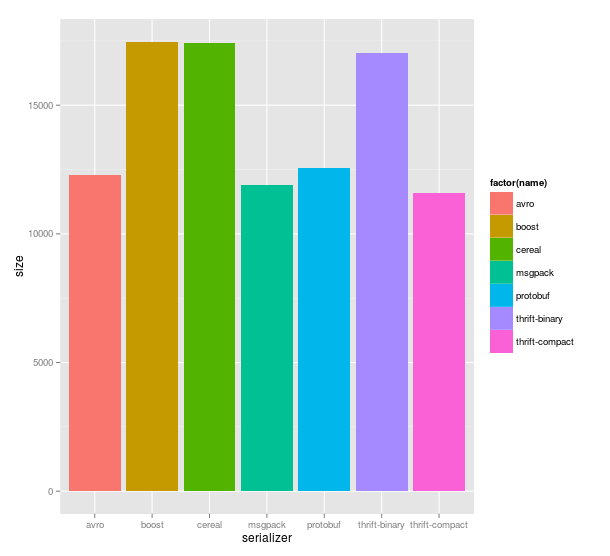
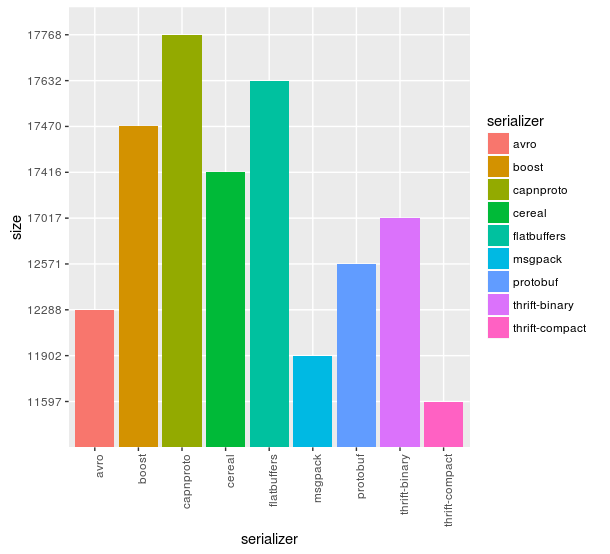
add flatbuffers

diff --git a/test.cpp b/test.cpp
@@ -25,6 +25,7 @@
 #include "msgpack/record.hpp"
 #include "cereal/record.hpp"
 #include "avro/record.hpp"
+#include "flatbuffers/test_generated.h"
 
 #include "data.hpp"
 
@@ -203,9 +204,25 @@ capnproto_serialization_test(size_t iterations)
 
     auto start = std::chrono::high_resolution_clock::now();
     for (size_t i = 0; i < iterations; i++) {
+        capnp::MallocMessageBuilder message;
+        Record::Builder r1 = message.getRoot<Record>();
+
+        auto ids = r1.initIds(kIntegers.size());
+        for (size_t i = 0; i < kIntegers.size(); i++) {
+            ids.set(i, kIntegers[i]);
+        }
+
+        auto strings = r1.initStrings(kStringsCount);
+        for (size_t i = 0; i < kStringsCount; i++) {
+            strings.set(i, kStringValue);
+        }
+
         serialized = message.getSegmentsForOutput();
         capnp::SegmentArrayMessageReader reader(serialized);
-        reader.getRoot<Record>();
+        auto r2 = reader.getRoot<Record>();
+
+        (void)r2.getIds().size();
+        (void)r2.getStrings().size();
     }
     auto finish = std::chrono::high_resolution_clock::now();
     auto duration = std::chrono::duration_cast<std::chrono::milliseconds>(finish - start).count();
@@ -394,13 +411,74 @@ avro_serialization_test(size_t iterations)
     std::cout << "avro: time = " << duration << " milliseconds" << std::endl << std::endl;
 }
 
+void
+flatbuffers_serialization_test(size_t iterations)
+{
+    using namespace flatbuffers_test;
+
+    std::vector<flatbuffers::Offset<flatbuffers::String>> strings;
+    strings.reserve(kStringsCount);
+
+    flatbuffers::FlatBufferBuilder builder;
+    for (size_t i = 0; i < kStringsCount; i++) {
+        strings.push_back(builder.CreateString(kStringValue));
+    }
+
+    auto ids_vec = builder.CreateVector(kIntegers);
+    auto strings_vec = builder.CreateVector(strings);
+    auto r1 = CreateRecord(builder, ids_vec, strings_vec);
+
+    builder.Finish(r1);
+
+    auto p = reinterpret_cast<char*>(builder.GetBufferPointer());
+    auto sz = builder.GetSize();
+    std::vector<char> buf(p, p + sz);
+
+    auto r2 = GetRecord(buf.data());
+    if (r2->strings()->size() != kStringsCount || r2->ids()->size() != kIntegers.size()) {
+        throw std::logic_error("flatbuffer's case: deserialization failed");
+    }
+
+    std::cout << "flatbuffers: size = " << builder.GetSize() << " bytes" << std::endl;
+
+    builder.ReleaseBufferPointer();
+
+    auto start = std::chrono::high_resolution_clock::now();
+    for (size_t i = 0; i < iterations; i++) {
+        builder.Clear();
+        strings.clear();
+        // buf.clear();
+
+        for (size_t i = 0; i < kStringsCount; i++) {
+            strings.push_back(builder.CreateString(kStringValue));
+        }
+
+        auto ids_vec = builder.CreateVector(kIntegers);
+        auto strings_vec = builder.CreateVector(strings);
+        auto r1 = CreateRecord(builder, ids_vec, strings_vec);
+        builder.Finish(r1);
+
+        auto p = reinterpret_cast<char*>(builder.GetBufferPointer());
+        auto sz = builder.GetSize();
+        std::vector<char> buf(p, p + sz);
+        auto r2 = GetRecord(buf.data());
+        (void)r2->ids()[0];
+
+        builder.ReleaseBufferPointer();
+    }
+    auto finish = std::chrono::high_resolution_clock::now();
+    auto duration = std::chrono::duration_cast<std::chrono::milliseconds>(finish - start).count();
+
+    std::cout << "flatbuffers: time = " << duration << " milliseconds" << std::endl << std::endl;
+}
+
 int
 main(int argc, char **argv)
 {
     GOOGLE_PROTOBUF_VERIFY_VERSION;
 
     if (argc < 2) {
-        std::cout << "usage: " << argv[0] << " N [thrift-binary thrift-compact protobuf boost msgpack cereal avro]";
+        std::cout << "usage: " << argv[0] << " N [thrift-binary thrift-compact protobuf boost msgpack cereal avro flatbuffers]";
         std::cout << std::endl << std::endl;
         std::cout << "arguments: " << std::endl;
         std::cout << " N  -- number of iterations" << std::endl << std::endl;
@@ -460,6 +538,10 @@ main(int argc, char **argv)
 
         if (names.empty() || names.find("avro") != names.end()) {
             avro_serialization_test(iterations);
+        }
+
+        if (names.empty() || names.find("flatbuffers") != names.end()) {
+            flatbuffers_serialization_test(iterations);
         }
     } catch (std::exception &exc) {
         std::cerr << "Error: " << exc.what() << std::endl;

diff --git a/flatbuffers/test_generated.h b/flatbuffers/test_generated.h
@@ -1,0 +1,61 @@
+// automatically generated by the FlatBuffers compiler, do not modify
+
+#ifndef FLATBUFFERS_GENERATED_TEST_FLATBUFFERS_TEST_H_
+#define FLATBUFFERS_GENERATED_TEST_FLATBUFFERS_TEST_H_
+
+#include "flatbuffers/flatbuffers.h"
+
+
+namespace flatbuffers_test {
+
+struct Record;
+
+struct Record FLATBUFFERS_FINAL_CLASS : private flatbuffers::Table {
+  enum {
+    VT_IDS = 4,
+    VT_STRINGS = 6
+  };
+  const flatbuffers::Vector<int64_t> *ids() const { return GetPointer<const flatbuffers::Vector<int64_t> *>(VT_IDS); }
+  const flatbuffers::Vector<flatbuffers::Offset<flatbuffers::String>> *strings() const { return GetPointer<const flatbuffers::Vector<flatbuffers::Offset<flatbuffers::String>> *>(VT_STRINGS); }
+  bool Verify(flatbuffers::Verifier &verifier) const {
+    return VerifyTableStart(verifier) &&
+           VerifyField<flatbuffers::uoffset_t>(verifier, VT_IDS) &&
+           verifier.Verify(ids()) &&
+           VerifyField<flatbuffers::uoffset_t>(verifier, VT_STRINGS) &&
+           verifier.Verify(strings()) &&
+           verifier.VerifyVectorOfStrings(strings()) &&
+           verifier.EndTable();
+  }
+};
+
+struct RecordBuilder {
+  flatbuffers::FlatBufferBuilder &fbb_;
+  flatbuffers::uoffset_t start_;
+  void add_ids(flatbuffers::Offset<flatbuffers::Vector<int64_t>> ids) { fbb_.AddOffset(Record::VT_IDS, ids); }
+  void add_strings(flatbuffers::Offset<flatbuffers::Vector<flatbuffers::Offset<flatbuffers::String>>> strings) { fbb_.AddOffset(Record::VT_STRINGS, strings); }
+  RecordBuilder(flatbuffers::FlatBufferBuilder &_fbb) : fbb_(_fbb) { start_ = fbb_.StartTable(); }
+  RecordBuilder &operator=(const RecordBuilder &);
+  flatbuffers::Offset<Record> Finish() {
+    auto o = flatbuffers::Offset<Record>(fbb_.EndTable(start_, 2));
+    return o;
+  }
+};
+
+inline flatbuffers::Offset<Record> CreateRecord(flatbuffers::FlatBufferBuilder &_fbb,
+   flatbuffers::Offset<flatbuffers::Vector<int64_t>> ids = 0,
+   flatbuffers::Offset<flatbuffers::Vector<flatbuffers::Offset<flatbuffers::String>>> strings = 0) {
+  RecordBuilder builder_(_fbb);
+  builder_.add_strings(strings);
+  builder_.add_ids(ids);
+  return builder_.Finish();
+}
+
+inline const flatbuffers_test::Record *GetRecord(const void *buf) { return flatbuffers::GetRoot<flatbuffers_test::Record>(buf); }
+
+inline bool VerifyRecordBuffer(flatbuffers::Verifier &verifier) { return verifier.VerifyBuffer<flatbuffers_test::Record>(); }
+
+inline void FinishRecordBuffer(flatbuffers::FlatBufferBuilder &fbb, flatbuffers::Offset<flatbuffers_test::Record> root) { fbb.Finish(root); }
+
+}  // namespace flatbuffers_test
+
+#endif  // FLATBUFFERS_GENERATED_TEST_FLATBUFFERS_TEST_H_

diff --git a/README.md b/README.md
@@ -1,4 +1,15 @@
-#### [Thrift](http://thrift.apache.org/) vs. [Protobuf](https://code.google.com/p/protobuf/) vs. [Boost.Serialization](http://www.boost.org/libs/serialization) vs. [Msgpack](http://msgpack.org/) vs. [Cereal](http://uscilab.github.io/cereal/index.html) vs. [Avro](http://avro.apache.org/) serialization/deserialization time test for C++.
+#### About
+
+Compare various data serialization libraries for C++.
+
+* [Thrift](http://thrift.apache.org/)
+* [Protobuf](https://code.google.com/p/protobuf/)
+* [Boost.Serialization](http://www.boost.org/libs/serialization)
+* [Msgpack](http://msgpack.org/)
+* [Cereal](http://uscilab.github.io/cereal/index.html)
+* [Avro](http://avro.apache.org/)
+* [Capnproto](https://capnproto.org/)
+* [Flatbuffers](https://google.github.io/flatbuffers/)
 
 #### Build
 This project does not have any external library dependencies. All (boost, thrift etc.) needed libraries are downloaded
@@ -38,6 +49,8 @@ on a typical desktop computer with Intel Core i5 processor running Ubuntu 14.04.
 * msgpack 0.5.9
 * cereal 1.1.2
 * avro 1.7.7
+* capnproto 0.5.2
+* flatbuffers 1.3.0
 
 | serializer     | object's size | avg. total time |
 | -------------- | ------------- | --------------- |
@@ -49,10 +62,6 @@ on a typical desktop computer with Intel Core i5 processor running Ubuntu 14.04.
 | cereal         | 17416         | 10688           |
 | avro           | 12288         | 31750           |
 
-Size mesuared in bytes, time mesuared in milliseconds.
-
-##### Graphical representations
-
 ###### Size
 
 ![Size](images/size.png)
@@ -60,3 +69,17 @@ Size mesuared in bytes, time mesuared in milliseconds.
 ###### Time
 
 ![Time](images/time.png)
+
+For capnproto and flatbuffers since they already store data in a "serialized" form and serialization basically means getting pointer
+to internal storage, we measure full build/serialize/deserialze cycle. On all the other libraries we measured serialize/deserialze
+cycle of already build data structure.
+
+| serializer     | object's size | avg. total time |
+| -------------- | ------------- | --------------- |
+| capnproto      | 17768         | 4396            |
+| flatbuffers    | 17632         | 12494           |
+
+![Time](images/time2.png)
+
+Size mesuared in bytes, time mesuared in milliseconds.
+
